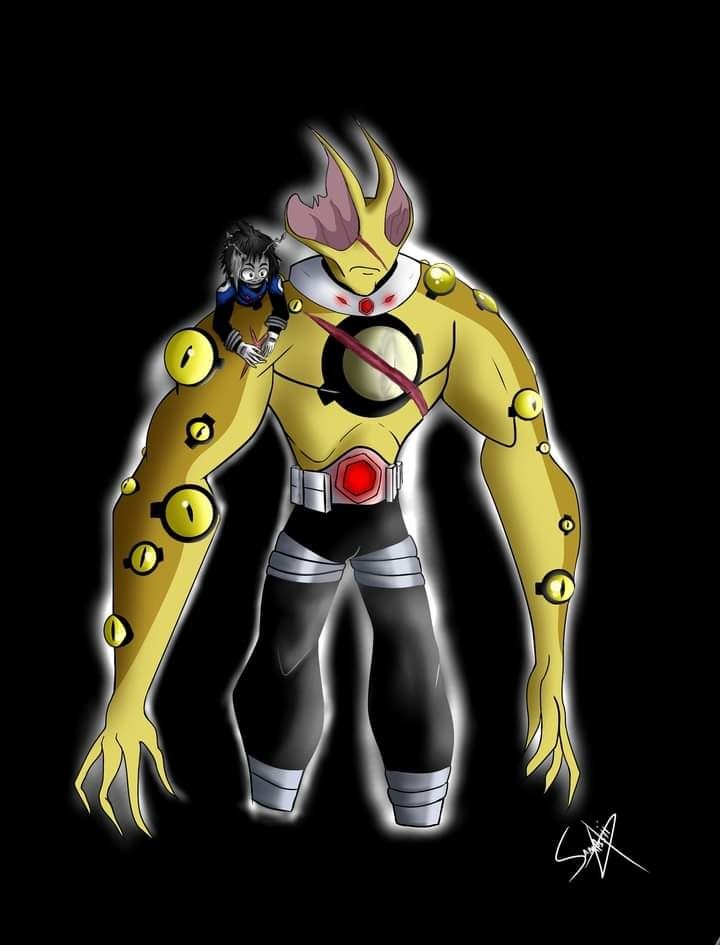
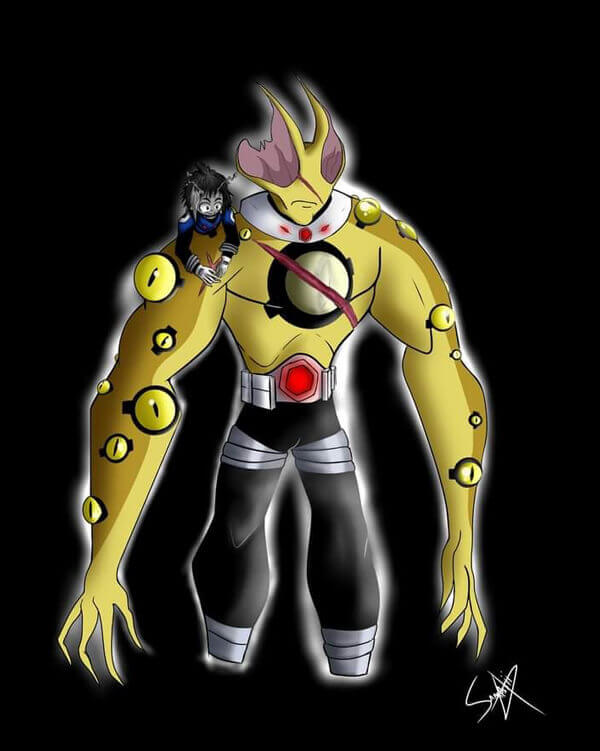
adicionado o segundo desafio de abril

Changed region(s): [[0.09, 0.0919, 0.9, 0.9494], [0.24, 0.6125, 0.27, 0.6738], [0.99, 0.98, 1.0, 1.0]]

diff --git a/desafios_aliendraw.html b/desafios_aliendraw.html
@@ -948,6 +948,154 @@
                                             </div>
                                             
 
+                                            <!--DESAFIOS 2-->
+                                            <div class="col-lg-12 my-4">
+                                                <p>
+                                                    Tema: <a href="https://www.facebook.com/groups/662503674390212/permalink/850058745634703/" target="_blank">Redesign dos vilões </a><br> Data: 27/04/21 - 07/05/21
+                                                </p>
+                                            </div>
+
+                                            <div id="desafios-cards" class="row card-row-one">
+
+                                                <div id="desafio-card" class="col-lg-4 firstplace">
+
+                                                    <div id="desafio-card-img">
+
+                                                        <img src="img/desafios/aliendraw/2021/6º-edition-encanadores/first-place-joao-lucas-oliveira.jpg" alt="João Lucas Oliveira" class="img-fluid">
+
+                                                        <div class="author-info" id="author-desktop">
+
+                                                            <div class="text">
+
+                                                                <i class="fas fa-trophy mb-1"></i>
+
+                                                                <div>
+                                                                    <a href="https://www.instagram.com/jeyel_art/" target="_blank"><img src="img/icon/insta-icon.png" alt="instagram icon"></a>
+                                                                </div>
+
+                                                                <a href="https://www.instagram.com/jeyel_art/" target="_blank">
+                                                                    <p>jeyel_art</p>
+                                                                </a>
+
+                                                            </div>
+
+                                                        </div>
+
+                                                    </div>
+
+                                                    <div class="mt-2 mb-1" id="author-mobile">
+
+                                                        <span>
+
+                                                                <a href="https://www.instagram.com/jeyel_art/" target="_blank" class="mr-2"><p>jeyel_art</p></a>
+
+                                                                <div>
+                                                                    <a href="https://www.instagram.com/jeyel_art/" target="_blank"><img src="img/icon/insta-icon.png" alt="instagram icon"></a>
+                                                                </div>
+
+                                                                <i class="fas fa-trophy mb-1 ml-2"></i>
+
+                                                            </span>
+
+                                                    </div>
+
+                                                </div>
+
+                                                <div id="desafio-card" class="col-lg-4 secondplace">
+
+                                                    <div id="desafio-card-img">
+
+                                                        <img src="img/desafios/aliendraw/2021/6º-edition-encanadores/second-place-eric-gomes-da-rosa.jpg" alt="" class="img-fluid">
+
+                                                        <div class="author-info" id="author-desktop">
+
+                                                            <div class="text">
+
+                                                                <i class="fas fa-trophy mb-1"></i>
+
+                                                                <div>
+                                                                    <a href="https://www.artstation.com/doutor?fbclid=IwAR2mGqAIdruxtnVURHn4ti7SHVUgbGf5b9mCsI12oLS7gqqCNDyjk-GdTk4" target="_blank"><img src="img/icon/artstations-icon.png" alt="Artstation icon"></a>
+
+                                                                    <a href="https://www.instagram.com/pottereric/" target="_blank"><img src="img/icon/insta-icon.png" alt="instagram icon"></a>
+                                                                </div>
+
+                                                                <a href="https://www.artstation.com/doutor?fbclid=IwAR2mGqAIdruxtnVURHn4ti7SHVUgbGf5b9mCsI12oLS7gqqCNDyjk-GdTk4" target="_blank">
+                                                                    <p style="white-space: nowrap;">Éric Gomes da Rosa</p>
+                                                                </a>
+
+                                                            </div>
+
+                                                        </div>
+
+
+                                                    </div>
+
+                                                    <div class="mt-2 mb-1" id="author-mobile">
+
+                                                        <span>
+
+                                                                <a href="https://www.artstation.com/doutor?fbclid=IwAR2mGqAIdruxtnVURHn4ti7SHVUgbGf5b9mCsI12oLS7gqqCNDyjk-GdTk4" target="_blank" class="mr-2"><p>Éric Gomes da Rosa</p></a>
+            
+                                                                <div>
+                                                                    <a href="https://www.artstation.com/doutor?fbclid=IwAR2mGqAIdruxtnVURHn4ti7SHVUgbGf5b9mCsI12oLS7gqqCNDyjk-GdTk4" target="_blank"><img src="img/icon/artstations-icon.png" alt="Artstation icon"></a>
+
+                                                                    <a href="https://www.instagram.com/pottereric/" target="_blank"><img src="img/icon/insta-icon.png" alt="instagram icon"></a>
+                                                                </div>
+
+                                                                <i class="fas fa-trophy mb-1 ml-2"></i>
+        
+                                                            </span>
+
+                                                    </div>
+
+                                                </div>
+
+                                                <div id="desafio-card" class="col-lg-4 thirdplace">
+
+                                                    <div id="desafio-card-img">
+
+                                                        <img src="img/desafios/aliendraw/2021/6º-edition-encanadores/third-place-kelvin-henrique.jpg" alt="Kelvin Henrique" class="img-fluid">
+
+                                                        <div class="author-info" id="author-desktop">
+
+                                                            <div class="text">
+
+                                                                <i class="fas fa-trophy mb-1"></i>
+
+                                                                <div>
+                                                                    <a href="https://www.facebook.com/kevin.henrique.336" target="_blank"><img src="img/icon/facebook-icon.png" alt="facebook icon"></a>
+                                                                </div>
+
+                                                                <a href="https://www.facebook.com/kevin.henrique.336" target="_blank">
+                                                                    <p>Kelvin Henrique</p>
+                                                                </a>
+
+                                                            </div>
+
+                                                        </div>
+
+                                                    </div>
+
+                                                    <div class="mt-2 mb-1" id="author-mobile">
+
+                                                        <span>
+
+                                                            <a href="https://www.facebook.com/kevin.henrique.336" target="_blank"><p class="mr-2">Kelvin Henrique</p></a>
+
+                                                            <div>
+                                                                <a href="https://www.facebook.com/kevin.henrique.336" target="_blank"><img src="img/icon/facebook-icon.png" alt="facebook icon"></a>
+                                                            </div>
+
+                                                            <i class="fas fa-trophy mb-1 ml-2"></i>
+
+                                                        </span>
+
+                                                    </div>
+
+                                                </div>
+
+                                            </div>
+
                                         </div>
 
                                     </div>
